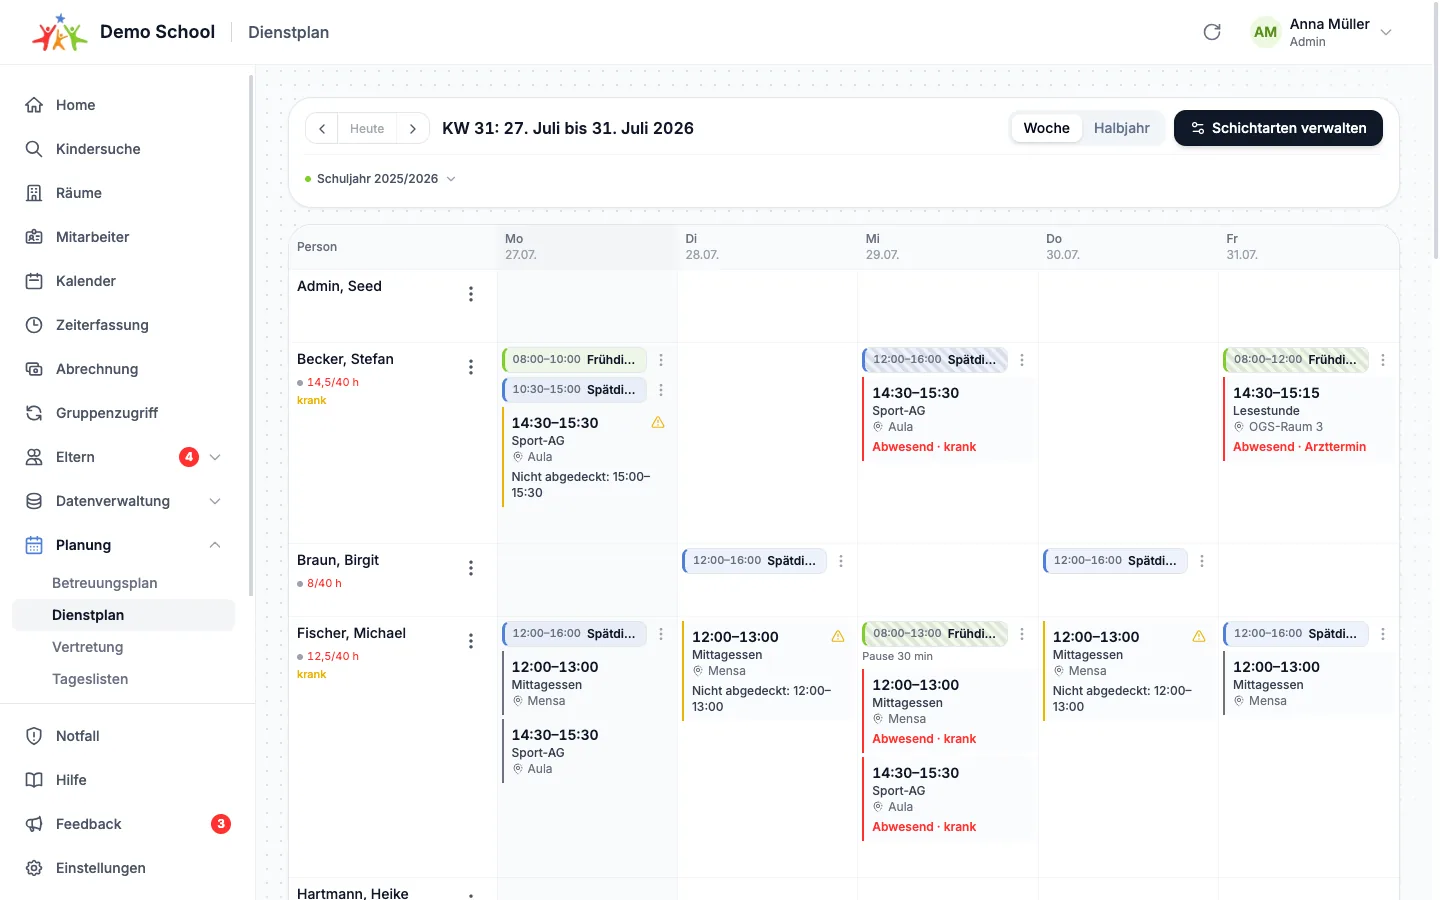
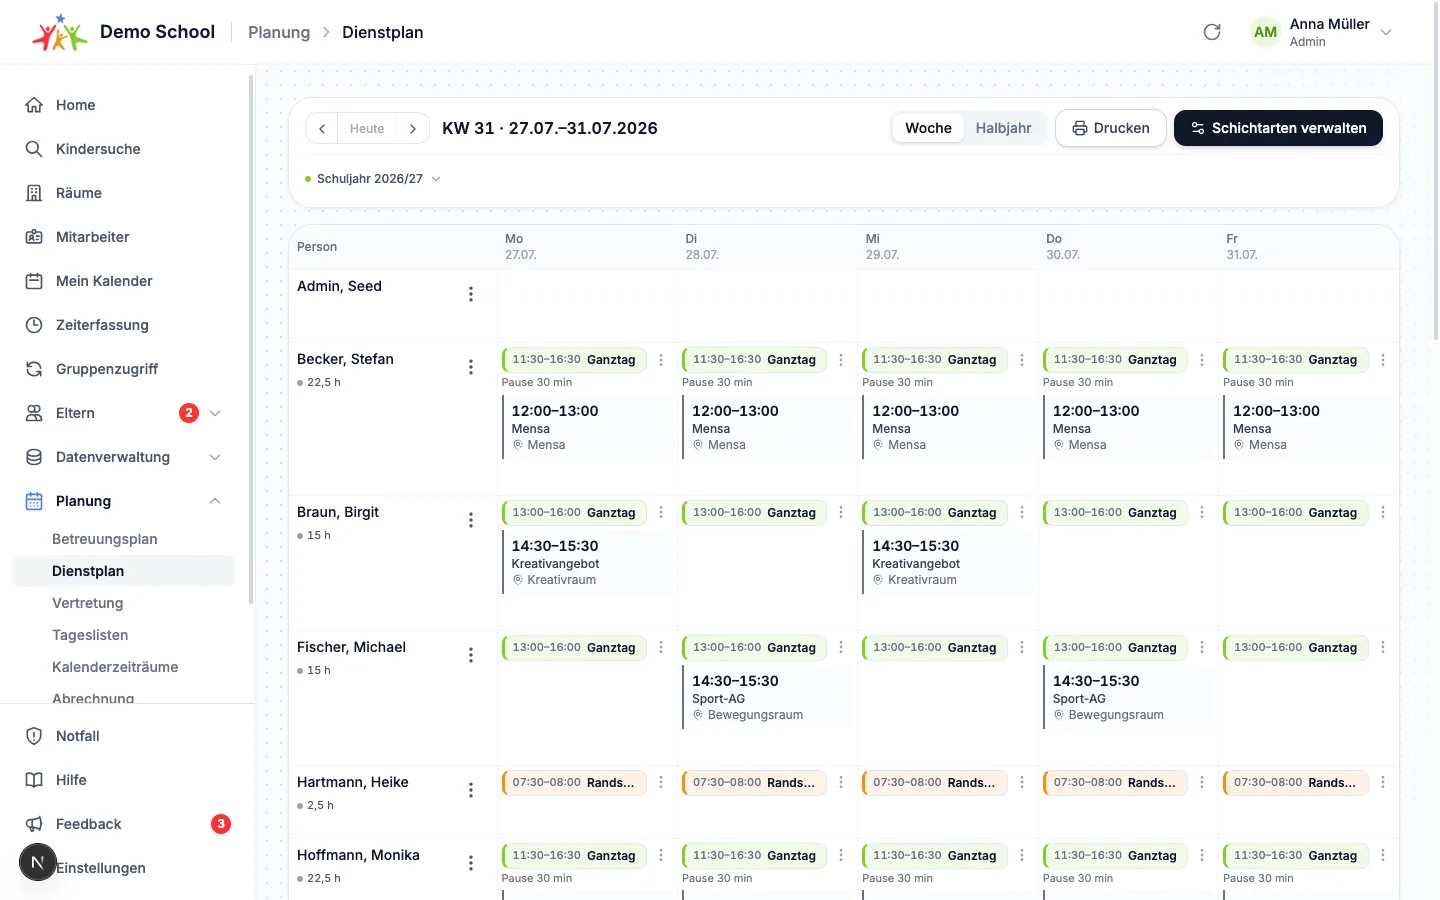
fix(planexport): Einsatzbereich-Blatt vollstaendig, Raumnamen entdoppelt
Am gedruckten Blatt gesehen, nicht am Diff: Raeume heissen routinemaessig
wie das, was in ihnen stattfindet, und "12:00-13:00 Mensa - Mensa" ist auf
einem Aushang nur Rauschen. Der Raum entfaellt, wenn er den Titel bloss
wiederholt.

Zweitens stand im Einsatzbereich-Blatt die Ganztag-Zeile an genau den
Tagen leer, an denen jemand zusaetzlich ein Angebot betreut hat - eine
Schicht bildete ihre Schichtart-Zeile nur an Tagen ohne Block, damit
niemand doppelt auftaucht. Auf einem Einsatzplan ist das die falsche
Entscheidung: Er soll zeigen, wer wo eingesetzt ist, und die Loecher
standen ausgerechnet dort, wo am meisten los war. Jetzt fuellt jede
Schicht ihre Schichtart-Zeile und jeder Block seine eigene, beide mit
eigener Uhrzeit. Gezaehlt wird auf diesem Blatt ohnehin nichts.

Die beiden Guide-Screenshots zeigen die Kopfzeile jetzt mit "Drucken".

diff --git a/backend/services/planexport/service_internal_test.go b/backend/services/planexport/service_internal_test.go
@@ -261,9 +261,10 @@ func TestDienstplanSkipsStaffWithoutEntries(t *testing.T) {
 	}
 }
 
-// The Einsatzbereich view groups by task, and a shift only forms its own row
-// on days where it carries no block — otherwise the same person would be
-// listed twice for the same hours.
+// The Einsatzbereich view has a row per deployment: shifts fill their
+// Schichtart row, blocks fill their own, and someone doing both appears in
+// both with different times — a deployment sheet whose Ganztag row goes
+// blank on the days someone also runs an Angebot answers nothing.
 func TestDienstplanByAreaGroupsNamesUnderTasks(t *testing.T) {
 	overview := &scheduleSvc.StaffScheduleOverview{
 		Staff: []*usersModel.Staff{
@@ -298,11 +299,11 @@ func TestDienstplanByAreaGroupsNamesUnderTasks(t *testing.T) {
 		t.Fatalf("Mensa cell = %q, want %q", cell, want)
 	}
 
-	// The Monday shift produced no Ganztag row, because it carries a block.
-	for _, label := range rowLabels(renderer.doc) {
-		if label == "Ganztag" {
-			t.Fatalf("shift with a block also formed a Schichtart row: %v", rowLabels(renderer.doc))
-		}
+	// The same two people are also on general Ganztag duty that day, and the
+	// Ganztag row says so — with its own window, so nobody reads it as two
+	// separate people.
+	if cell := cellFor(t, renderer.doc, "Ganztag", listexport.ColumnPlanMonday); cell != "11:00–16:00\nKessener, F.\nMüller, A." {
+		t.Fatalf("Ganztag cell = %q", cell)
 	}
 
 	if cell := cellFor(t, renderer.doc, "Randstunde", listexport.ColumnPlanTuesday); cell != "07:30–08:00\nKessener, F." {
@@ -464,5 +465,24 @@ func closingRange(start, end timezone.Date, reason string) *scheduleModel.Closin
 		StartDate: start,
 		EndDate:   end,
 		Reason:    reason,
+	}
+}
+
+// Rooms are routinely named after what happens in them; "Mensa · Mensa" is
+// noise on a sheet meant to be read from across a room.
+func TestDienstplanDropsRoomThatRepeatsTheTitle(t *testing.T) {
+	overview := &scheduleSvc.StaffScheduleOverview{
+		Staff: []*usersModel.Staff{staffMember(7, "Franziska", "Kessener")},
+		Assignments: []scheduleSvc.StaffScheduleAssignment{{
+			StaffID: 7, Date: monday, StartTime: clock(12, 0), EndTime: clock(13, 0),
+			ActivityTitle: "Mensa", RoomName: "Mensa",
+		}},
+	}
+	service, renderer := newDienstplanService(overview, nil)
+	if _, err := service.ExportDienstplan(context.Background(), defaultParams()); err != nil {
+		t.Fatalf("ExportDienstplan: %v", err)
+	}
+	if cell := cellFor(t, renderer.doc, "Kessener, Franziska", listexport.ColumnPlanMonday); cell != "12:00–13:00 Mensa" {
+		t.Fatalf("cell = %q, want the repeated room dropped", cell)
 	}
 }

diff --git a/backend/services/planexport/dienstplan.go b/backend/services/planexport/dienstplan.go
@@ -281,8 +281,8 @@ func (d *dienstplanData) assignmentLines(assignment scheduleSvc.StaffScheduleAss
 	}
 
 	line := timeRange(assignment.StartTime, assignment.EndTime) + " " + assignment.ActivityTitle
-	if assignment.RoomName != "" {
-		line += " · " + assignment.RoomName
+	if room := distinctRoom(assignment.ActivityTitle, assignment.RoomName); room != "" {
+		line += " · " + room
 	}
 	if assignment.IsSubstitute {
 		line += " · Vertretung"
@@ -303,12 +303,15 @@ func (d *dienstplanData) assignmentLines(assignment scheduleSvc.StaffScheduleAss
 // rowsByArea is the layout the schools keep in Excel: one row per
 // Einsatzbereich, the names in the cells.
 //
-// A row is a task, not a person. Tasks come from the timetable blocks
-// (Küche, Lernzeit, Angebote); a shift that has no block on that day
-// contributes to a row named after its Schichtart (Randstunde), which is
-// how the same sheets are built by hand today. That is not double counting:
-// a shift is the outer presence, a block a task inside it, and each is shown
-// exactly once.
+// A row is a place someone is deployed, and there are two kinds. Shifts fill
+// a row named after their Schichtart (Randstunde, Ganztag) — the outer
+// presence; timetable blocks fill a row named after the block (Mensa,
+// Lernzeit) — a task inside that presence. Someone doing both appears in
+// both rows, with different times, exactly as the hand-kept sheets do. Making
+// a block suppress its own Schichtart row was tried and read worse: the
+// Ganztag row then went blank on precisely the days someone also ran an
+// Angebot, which is the opposite of what a deployment sheet is for. Nothing
+// is double counted here either — no minutes are summed on this sheet.
 func (d *dienstplanData) rowsByArea(w week) []listexport.Row {
 	areas := map[string]*areaRow{}
 
@@ -333,15 +336,10 @@ func (d *dienstplanData) rowsByArea(w week) []listexport.Row {
 					label += " (abwesend)"
 				}
 				areaFor(areas, assignment.ActivityTitle).add(i,
-					assignment.StartTime, assignment.EndTime, assignment.RoomName, label)
+					assignment.StartTime, assignment.EndTime,
+					distinctRoom(assignment.ActivityTitle, assignment.RoomName), label)
 			}
 
-			// Shifts only form their own area row on days where they carry no
-			// block, so a person is not listed both under "Küche" and under
-			// their Schichtart for the same hours.
-			if len(assignments) > 0 {
-				continue
-			}
 			for _, shift := range d.shifts[key] {
 				title := d.shiftTypeNames[derefID(shift.ShiftTypeID)]
 				if title == "" {

diff --git a/backend/services/planexport/week.go b/backend/services/planexport/week.go
@@ -113,6 +113,16 @@ func timeRange(start, end time.Time) string {
 
 const clockLayout = "15:04"
 
+// distinctRoom returns the room name unless it merely repeats the title.
+// Rooms are routinely named after what happens in them, and "Mensa · Mensa"
+// is noise on a sheet whose whole point is being read from across a room.
+func distinctRoom(title, room string) string {
+	if strings.EqualFold(strings.TrimSpace(title), strings.TrimSpace(room)) {
+		return ""
+	}
+	return room
+}
+
 // shortName is "Kessener, F." — the form used inside cells that list several
 // people, where full first names would make the column tall enough to push a
 // week onto a second page. Row labels keep the full name.

diff --git a/backend/services/planexport/betreuungsplan.go b/backend/services/planexport/betreuungsplan.go
@@ -240,7 +240,7 @@ func (d *betreuungsplanData) closedDayLines(day timezone.Date) []string {
 // how many children are expected.
 func (d *betreuungsplanData) instanceLines(instance *scheduleModel.ActivityInstance) []string {
 	head := timeRange(instance.StartTime, instance.EndTime)
-	if room := d.roomNames[instance.RoomID]; room != "" {
+	if room := distinctRoom(instance.Title, d.roomNames[instance.RoomID]); room != "" {
 		head += " · " + room
 	}
 
